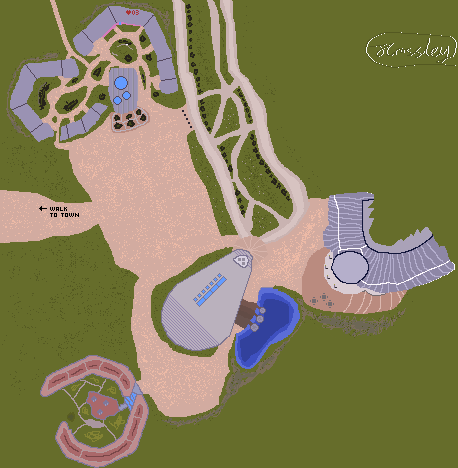
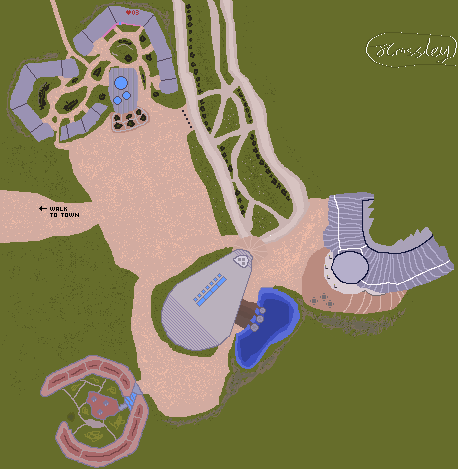
minor map fixes

diff --git a/core/src/com/mygdx/hustle/HeslingtonHustle.java b/core/src/com/mygdx/hustle/HeslingtonHustle.java
@@ -87,7 +87,7 @@ public class HeslingtonHustle extends ApplicationAdapter {
 		camera.update();
 
 		//camera follow player
-		camera.position.x = player.getX() +player.getWidth()/2;
+		camera.position.x = player.getX() + player.getWidth()/2;
 		camera.position.y = player.getY() + player.getHeight()/2;
 		camera.update();
 		// Set the batch's projection matrix to the camera's combined matrix
@@ -95,7 +95,7 @@ public class HeslingtonHustle extends ApplicationAdapter {
 
 		//render map
 		batch.begin();
-		batch.draw(backgroundTexture, -550, -2100, 3000, 3000);
+		batch.draw(backgroundTexture, -620, -2020, 3000, 3000);
 		batch.end();
 
 		boolean noArrowKeyPressed = !(Gdx.input.isKeyPressed(Input.Keys.DOWN) ||
